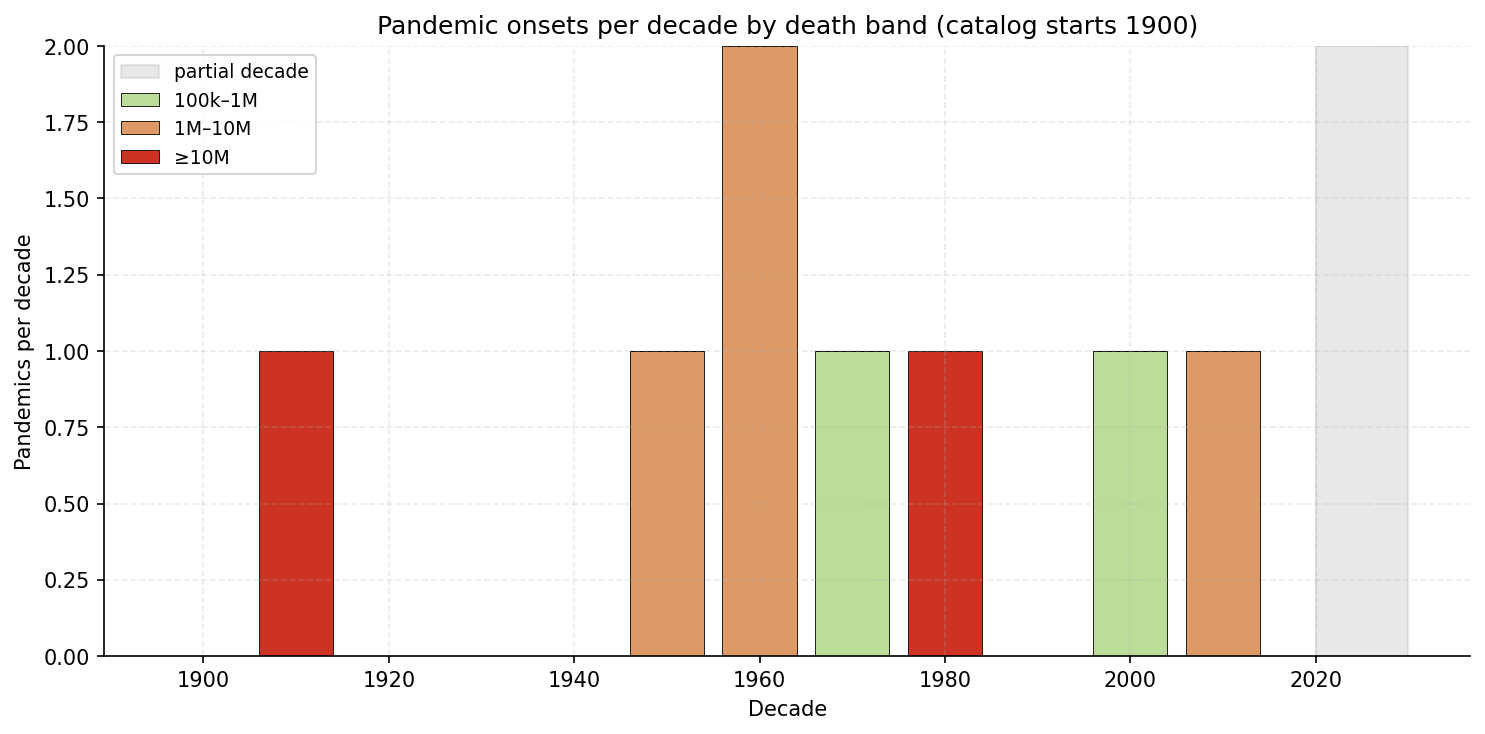
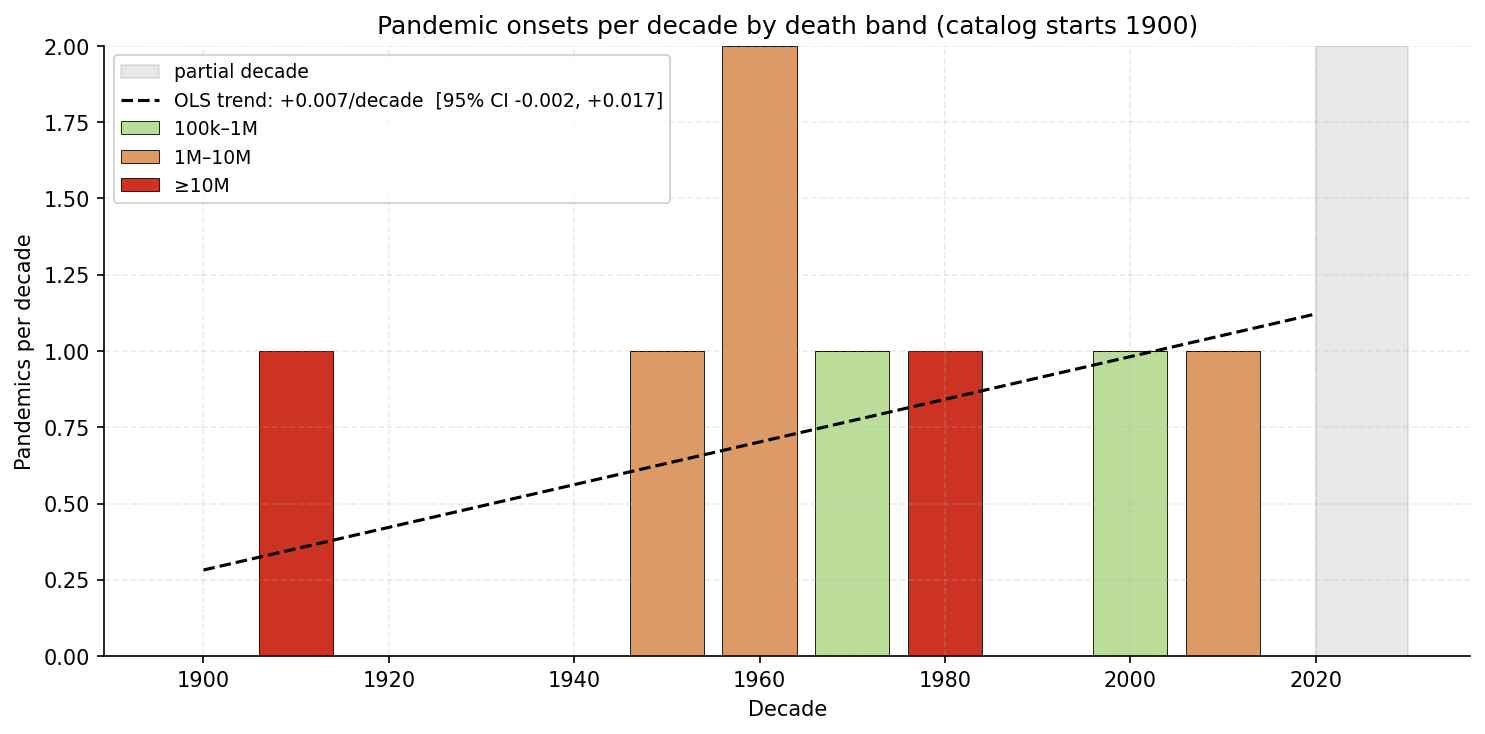
Add trend line + bootstrap CI to plot_02

diff --git a/make_plots.py b/make_plots.py
@@ -89,6 +89,21 @@ def plot_02_decadal_counts_by_band(df: pd.DataFrame):
     # Shade partial 2020s
     ax.axvspan(PARTIAL_DECADE_START, PARTIAL_DECADE_START + 10,
                 color="grey", alpha=0.18, label="partial decade")
+    # Trend line — fit on complete decades only, in the detection-clean era
+    totals = np.array(bottom)
+    full_decades_mask = decades < PARTIAL_DECADE_START
+    x_fit = decades[full_decades_mask]; y_fit = totals[full_decades_mask]
+    slope, intercept = np.polyfit(x_fit, y_fit, 1)
+    # Bootstrap slope CI
+    rng = np.random.default_rng(42)
+    boot_slopes = []
+    for _ in range(2000):
+        idx = rng.integers(0, len(x_fit), len(x_fit))
+        s, _ = np.polyfit(x_fit[idx], y_fit[idx], 1)
+        boot_slopes.append(s)
+    ci_lo, ci_hi = np.percentile(boot_slopes, [2.5, 97.5])
+    ax.plot(decades, slope * decades + intercept, "k--", linewidth=1.5,
+              label=f"OLS trend: {slope:+.3f}/decade  [95% CI {ci_lo:+.3f}, {ci_hi:+.3f}]")
     ax.set_xlabel("Decade")
     ax.set_ylabel("Pandemics per decade")
     ax.set_title(f"Pandemic onsets per decade by death band (catalog starts {CATALOG_START})")
@@ -96,6 +111,7 @@ def plot_02_decadal_counts_by_band(df: pd.DataFrame):
     plt.tight_layout()
     plt.savefig(PLOTS / "02_decadal_counts_by_band.png")
     plt.close()
+    return slope, ci_lo, ci_hi
 
 
 def plot_03_great_pandemic_timing(df: pd.DataFrame):
@@ -188,7 +204,8 @@ def main():
     print(f"≥1M deaths: {(df['deaths_estimate'] >= GREAT_PANDEMIC_THRESHOLD).sum()}")
     print(f"≥10M deaths: {(df['deaths_estimate'] >= 10_000_000).sum()}")
     plot_01_history(df)
-    plot_02_decadal_counts_by_band(df)
+    slope, lo, hi = plot_02_decadal_counts_by_band(df)
+    print(f"Decadal trend ({CATALOG_START}+): {slope:+.3f}/decade [95% CI {lo:+.3f}, {hi:+.3f}]")
     plot_03_great_pandemic_timing(df)
     plot_04_magnitude_distribution(df)
     print(f"Wrote 4 plots to {PLOTS}/")
